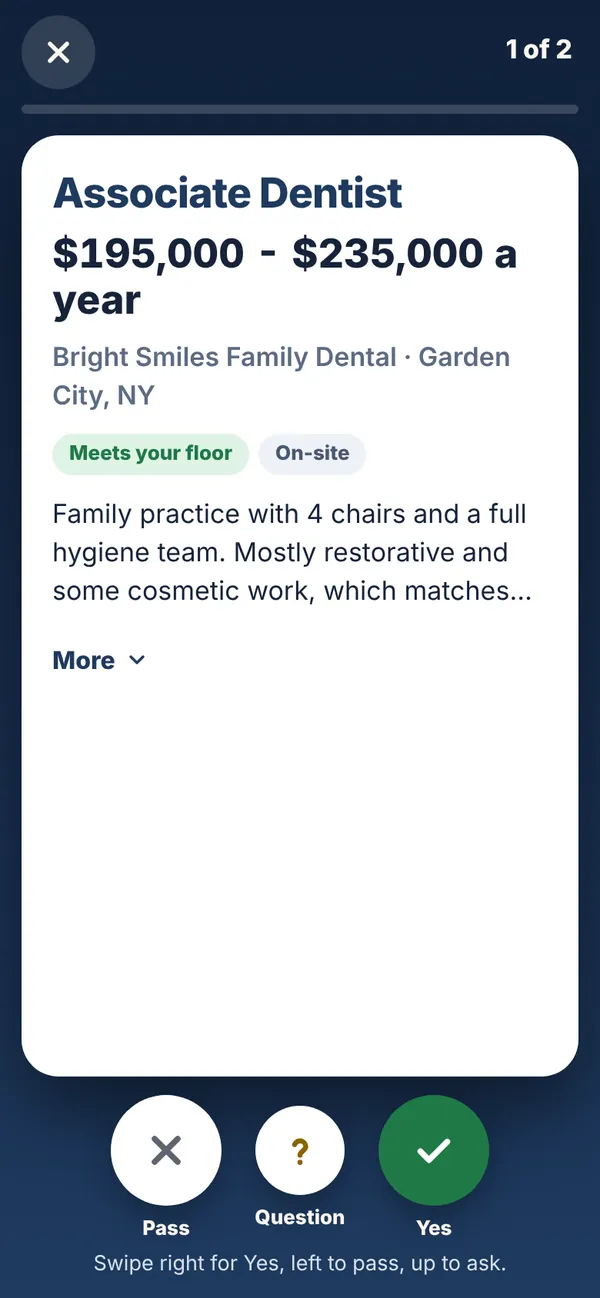
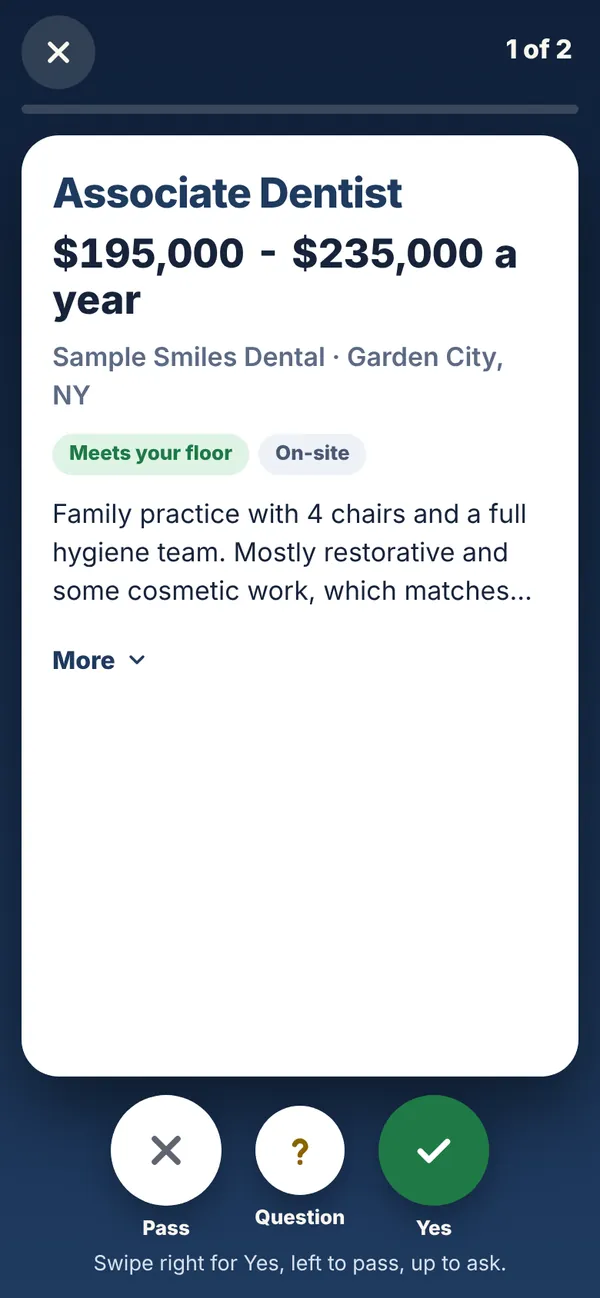
Portal demo data: clearly fictional business and client names; retake home page portal screenshots
Demo strings only (no logic, IDs or data attributes): Sabrina K. -> Jordan T.; Bright Smiles Family Dental -> Sample Smiles Dental;
Long Island Dental Partners -> Demo Dental Partners; Massapequa Dental Arts -> Example Dental Arts; North Shore Smiles -> Demo Shore Dental;
Smithtown Community Dental Center -> Sample Community Dental Center; Bay Shore Dental Group -> Example Dental Group;
East End Family Dentistry -> Demo Family Dentistry.

Claude-Session: https://claude.ai/code/session_01UCpGAYpMgySPpRNWoLsjcj

Changed region(s): [[0.09, 0.2465, 0.84, 0.339]]

diff --git a/portal/index.html b/portal/index.html
@@ -375,30 +375,30 @@ window.SP_DEMO = function () {
   var gd = function (id) { return 'https://docs.google.com/document/d/' + id + '/edit'; };
   return {
     ok: true,
-    client: { id: 'C-DEMO', name: 'Sabrina K.', firstName: 'Sabrina', stage: 'Trial', startDate: iso(-8), trialEnds: iso(9), payFloor: '$190,000', lastTouch: iso(-1), lastFeedback: '', home: 'Hicksville, NY', std: 'Authorized to work in the US: Yes\nNeed visa sponsorship: No\nNY dental license: Yes, active',
-      weeklyNote: 'Good week, Sabrina. Massapequa Dental Arts has your tailored resume and cover letter ready, so you can apply whenever you like. I am also asking Smithtown about loan repayment for you and expect an answer by Friday. Two new Nassau County openings came in on Monday.' },
+    client: { id: 'C-DEMO', name: 'Jordan T.', firstName: 'Jordan', stage: 'Trial', startDate: iso(-8), trialEnds: iso(9), payFloor: '$190,000', lastTouch: iso(-1), lastFeedback: '', home: 'Hicksville, NY', std: 'Authorized to work in the US: Yes\nNeed visa sponsorship: No\nNY dental license: Yes, active',
+      weeklyNote: 'Good week, Jordan. Example Dental Arts has your tailored resume and cover letter ready, so you can apply whenever you like. I am also asking Sample Community Dental about loan repayment for you and expect an answer by Friday. Two new Nassau County openings came in on Monday.' },
     jobs: [
-      { id: 'J-101', added: iso(-1), company: 'Bright Smiles Family Dental', title: 'Associate Dentist', location: 'Garden City, NY', setting: 'On-site', pay: '$195,000 - $235,000 a year', payLow: 195000, paySource: 'Posted by employer', floor: 'At or above your floor', why: 'Family practice with 4 chairs and a full hygiene team. Mostly restorative and some cosmetic work, which matches your last 5 years.', link: 'https://example.com/jobs/bright-smiles-associate', notes: 'Four days a week, no Sundays.', answer: '', note: '', answeredOn: '', kit: { pay: '', start: '', why: '' } },
-      { id: 'J-102', added: iso(-1), company: 'Long Island Dental Partners', title: 'General Dentist', location: 'Huntington, NY', setting: 'On-site', pay: '$90 - $115 an hour', payLow: 90, paySource: 'Posted by employer', floor: 'At or above your floor', why: 'Busy group practice with in-house lab. Open to dentists who want to build implant skills.', link: 'https://example.com/jobs/lidp-general', notes: '', answer: '', note: '', answeredOn: '' },
-      { id: 'J-103', added: iso(-6), company: 'Massapequa Dental Arts', title: 'Associate Dentist', location: 'Massapequa, NY', setting: 'On-site', pay: '$200,000 - $250,000 a year', payLow: 200000, paySource: 'Posted by employer', floor: 'At or above your floor', why: 'Patient education is a big part of how they work, which is how you described your own style. Path to partnership after 2 years.', link: 'https://example.com/jobs/massapequa-associate', notes: 'They answer applications within a week.', answer: 'Yes', note: '', answeredOn: iso(-5),
+      { id: 'J-101', added: iso(-1), company: 'Sample Smiles Dental', title: 'Associate Dentist', location: 'Garden City, NY', setting: 'On-site', pay: '$195,000 - $235,000 a year', payLow: 195000, paySource: 'Posted by employer', floor: 'At or above your floor', why: 'Family practice with 4 chairs and a full hygiene team. Mostly restorative and some cosmetic work, which matches your last 5 years.', link: 'https://example.com/jobs/bright-smiles-associate', notes: 'Four days a week, no Sundays.', answer: '', note: '', answeredOn: '', kit: { pay: '', start: '', why: '' } },
+      { id: 'J-102', added: iso(-1), company: 'Demo Dental Partners', title: 'General Dentist', location: 'Huntington, NY', setting: 'On-site', pay: '$90 - $115 an hour', payLow: 90, paySource: 'Posted by employer', floor: 'At or above your floor', why: 'Busy group practice with in-house lab. Open to dentists who want to build implant skills.', link: 'https://example.com/jobs/lidp-general', notes: '', answer: '', note: '', answeredOn: '' },
+      { id: 'J-103', added: iso(-6), company: 'Example Dental Arts', title: 'Associate Dentist', location: 'Massapequa, NY', setting: 'On-site', pay: '$200,000 - $250,000 a year', payLow: 200000, paySource: 'Posted by employer', floor: 'At or above your floor', why: 'Patient education is a big part of how they work, which is how you described your own style. Path to partnership after 2 years.', link: 'https://example.com/jobs/massapequa-associate', notes: 'They answer applications within a week.', answer: 'Yes', note: '', answeredOn: iso(-5),
         kit: { pay: 'I am looking for $220,000 to $240,000, in line with the posted range.', start: 'I can start two weeks after an offer.', why: 'I like that your team puts real time into patient education. That is how I practice, and my patients stay with me because of it.' } },
-      { id: 'J-104', added: iso(-9), company: 'North Shore Smiles', title: 'General Dentist', location: 'Port Washington, NY', setting: 'On-site', pay: '$185,000 - $225,000 a year', payLow: 185000, paySource: 'Posted by employer', floor: 'At or above your floor', why: 'Calm, modern office with digital scanners. Many family patients, good fit for your pediatric experience.', link: 'https://example.com/jobs/north-shore-general', notes: '', answer: 'Yes', note: '', answeredOn: iso(-8), kit: { pay: 'Within the posted range, around $210,000.', start: 'Two weeks after an offer.', why: '' } },
-      { id: 'J-105', added: iso(-4), company: 'Smithtown Community Dental Center', title: 'Staff Dentist', location: 'Smithtown, NY', setting: 'On-site', pay: '$175,000 - $205,000 a year', payLow: 175000, paySource: 'Posted by employer', floor: 'Below your floor at the low end', why: 'Community health center with set hours and full benefits. Loan repayment may be available.', link: 'https://example.com/jobs/smithtown-staff', notes: '', answer: 'Question', note: 'Do they offer loan repayment or a sign-on bonus?', answeredOn: iso(-3) },
-      { id: 'J-106', added: iso(-5), company: 'Bay Shore Dental Group', title: 'Associate Dentist', location: 'Bay Shore, NY', setting: 'On-site', pay: '$160,000 - $180,000 a year', payLow: 160000, paySource: 'Posted by employer', floor: 'Below your floor', why: 'Steady patient base and short drive from the train.', link: 'https://example.com/jobs/bay-shore-associate', notes: '', answer: 'No', note: 'Pay is too low.', answeredOn: iso(-4) },
-      { id: 'J-107', added: iso(-7), company: 'East End Family Dentistry', title: 'Dentist', location: 'Riverhead, NY', setting: 'On-site', pay: '$190,000 - $215,000 a year', payLow: 190000, paySource: 'Posted by employer', floor: 'At or above your floor', why: 'Small practice, owner plans to retire in 3 years.', link: 'https://example.com/jobs/east-end-dentist', notes: '', answer: 'No', note: 'Too far to drive.', answeredOn: iso(-6) }
+      { id: 'J-104', added: iso(-9), company: 'Demo Shore Dental', title: 'General Dentist', location: 'Port Washington, NY', setting: 'On-site', pay: '$185,000 - $225,000 a year', payLow: 185000, paySource: 'Posted by employer', floor: 'At or above your floor', why: 'Calm, modern office with digital scanners. Many family patients, good fit for your pediatric experience.', link: 'https://example.com/jobs/north-shore-general', notes: '', answer: 'Yes', note: '', answeredOn: iso(-8), kit: { pay: 'Within the posted range, around $210,000.', start: 'Two weeks after an offer.', why: '' } },
+      { id: 'J-105', added: iso(-4), company: 'Sample Community Dental Center', title: 'Staff Dentist', location: 'Smithtown, NY', setting: 'On-site', pay: '$175,000 - $205,000 a year', payLow: 175000, paySource: 'Posted by employer', floor: 'Below your floor at the low end', why: 'Community health center with set hours and full benefits. Loan repayment may be available.', link: 'https://example.com/jobs/smithtown-staff', notes: '', answer: 'Question', note: 'Do they offer loan repayment or a sign-on bonus?', answeredOn: iso(-3) },
+      { id: 'J-106', added: iso(-5), company: 'Example Dental Group', title: 'Associate Dentist', location: 'Bay Shore, NY', setting: 'On-site', pay: '$160,000 - $180,000 a year', payLow: 160000, paySource: 'Posted by employer', floor: 'Below your floor', why: 'Steady patient base and short drive from the train.', link: 'https://example.com/jobs/bay-shore-associate', notes: '', answer: 'No', note: 'Pay is too low.', answeredOn: iso(-4) },
+      { id: 'J-107', added: iso(-7), company: 'Demo Family Dentistry', title: 'Dentist', location: 'Riverhead, NY', setting: 'On-site', pay: '$190,000 - $215,000 a year', payLow: 190000, paySource: 'Posted by employer', floor: 'At or above your floor', why: 'Small practice, owner plans to retire in 3 years.', link: 'https://example.com/jobs/east-end-dentist', notes: '', answer: 'No', note: 'Too far to drive.', answeredOn: iso(-6) }
     ],
     docs: [
       { id: 'D-1', jobId: '', name: 'Your resume', link: gd('demo-base-resume'), status: 'Approved', request: '', updated: iso(-7) },
-      { id: 'D-2', jobId: 'J-103', name: 'Resume for Massapequa Dental Arts', link: gd('demo-resume-103'), status: 'Approved', request: '', updated: iso(-2) },
-      { id: 'D-2p', jobId: 'J-103', name: 'Interview prep: Massapequa Dental Arts', link: gd('demo-prep-103'), status: 'Ready for your review', request: '', updated: iso(-2) },
-      { id: 'D-3', jobId: 'J-103', name: 'Cover letter for Massapequa Dental Arts', link: gd('demo-cover-103'), status: 'Approved', request: '', updated: iso(-2) },
-      { id: 'D-4', jobId: 'J-104', name: 'Resume for North Shore Smiles', link: gd('demo-resume-104'), status: 'Approved', request: '', updated: iso(-7) },
-      { id: 'D-5', jobId: 'J-104', name: 'Cover letter for North Shore Smiles', link: gd('demo-cover-104'), status: 'Approved', request: '', updated: iso(-7) },
-      { id: 'D-6', jobId: 'J-104', name: 'Thank-you note for North Shore Smiles', link: gd('demo-thanks-104'), status: 'Ready for review', request: '', updated: iso(-1) }
+      { id: 'D-2', jobId: 'J-103', name: 'Resume for Example Dental Arts', link: gd('demo-resume-103'), status: 'Approved', request: '', updated: iso(-2) },
+      { id: 'D-2p', jobId: 'J-103', name: 'Interview prep: Example Dental Arts', link: gd('demo-prep-103'), status: 'Ready for your review', request: '', updated: iso(-2) },
+      { id: 'D-3', jobId: 'J-103', name: 'Cover letter for Example Dental Arts', link: gd('demo-cover-103'), status: 'Approved', request: '', updated: iso(-2) },
+      { id: 'D-4', jobId: 'J-104', name: 'Resume for Demo Shore Dental', link: gd('demo-resume-104'), status: 'Approved', request: '', updated: iso(-7) },
+      { id: 'D-5', jobId: 'J-104', name: 'Cover letter for Demo Shore Dental', link: gd('demo-cover-104'), status: 'Approved', request: '', updated: iso(-7) },
+      { id: 'D-6', jobId: 'J-104', name: 'Thank-you note for Demo Shore Dental', link: gd('demo-thanks-104'), status: 'Ready for review', request: '', updated: iso(-1) }
     ],
     apps: [
-      { id: 'A-1', jobId: 'J-104', company: 'North Shore Smiles', role: 'General Dentist', applied: iso(-6), status: 'Interview scheduled', followUpDue: '', interview: iso(3),
-        prepBring: 'Your pediatric work: about 30 kids a week at your last practice, with very few needing a second visit.', prepExpect: 'Tell us about yourself; How do you handle an anxious patient?; Walk us through a case you are proud of; Why North Shore Smiles?', prepAsk: 'How are new patients split between dentists? What does a normal day look like?' }
+      { id: 'A-1', jobId: 'J-104', company: 'Demo Shore Dental', role: 'General Dentist', applied: iso(-6), status: 'Interview scheduled', followUpDue: '', interview: iso(3),
+        prepBring: 'Your pediatric work: about 30 kids a week at your last practice, with very few needing a second visit.', prepExpect: 'Tell us about yourself; How do you handle an anxious patient?; Walk us through a case you are proud of; Why Demo Shore Dental?', prepAsk: 'How are new patients split between dentists? What does a normal day look like?' }
     ]
   };
 };
